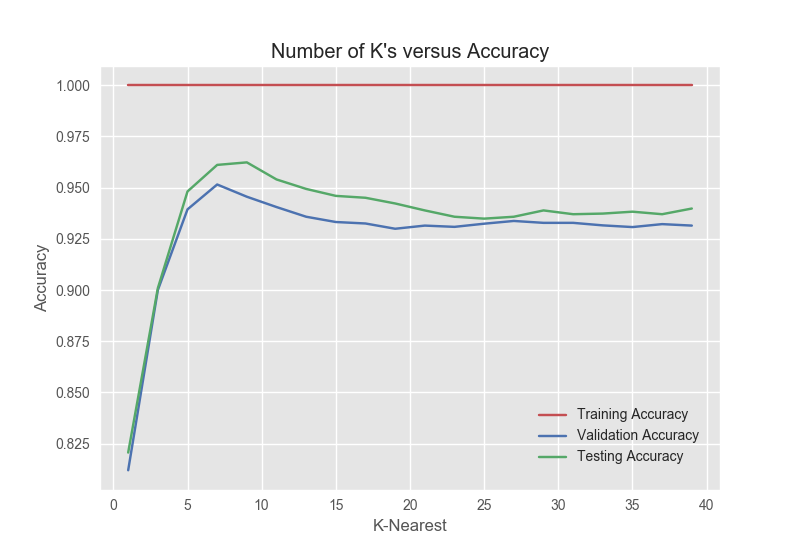
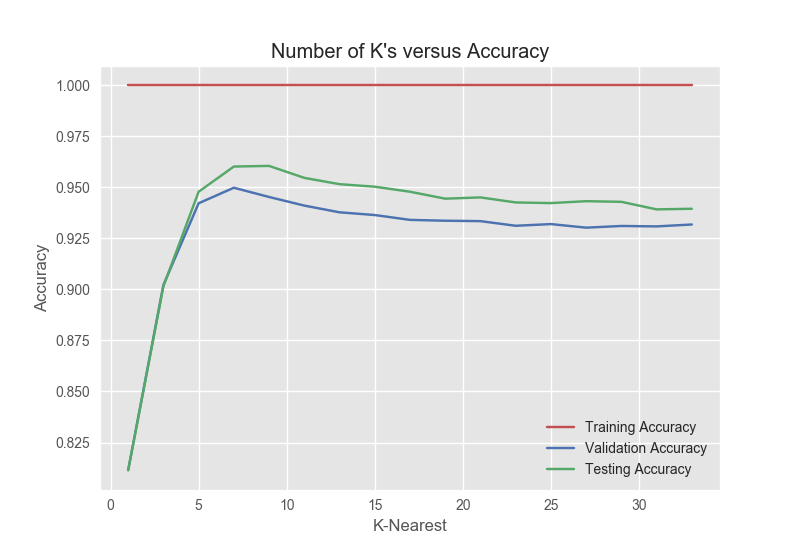
knn updates, plots

diff --git a/nursery_knn.py b/nursery_knn.py
@@ -20,15 +20,10 @@ labelencoder=LabelEncoder()
 for col in df.columns:
     df[col] = labelencoder.fit_transform(df[col])
 
-print df.shape
-
-# Split into train and test (75% train - 6499 rows, 25% test - 1625 rows)
+# Split into train and test
 train, test = train_test_split(df, test_size = 0.25)
 
 label = 'result'
-# General x,y
-data_y = df[label]
-data_x = df[[x for x in train.columns if label not in x]]
 # Train set
 train_y = train[label]
 train_x = train[[x for x in train.columns if label not in x]]
@@ -39,11 +34,11 @@ test_x = test[[x for x in test.columns if label not in x]]
 training_accuracy = []
 validation_accuracy = []
 test_accuracy = []
-k_values = range(1,41,2)
+k_values = range(1,35,2)
 
-# For knn
-print "--- KNN ---"
+# For knn, experiment on different k values
 for k in k_values:
+
     # Define the classifier
     clf = neighbors.KNeighborsClassifier(k, weights='distance')
     clf.fit(train_x, train_y)
@@ -63,7 +58,58 @@ line1, = plt.plot(k_values, test_accuracy, 'g', label="Testing Accuracy")
 plt.xlabel('K-Nearest')
 plt.ylabel('Accuracy')
 plt.title('Number of K\'s versus Accuracy')
-plt.legend(bbox_to_anchor=(0.89, 0.28), bbox_transform=plt.gcf().transFigure)
+plt.legend(loc='best')
 fig.savefig('figures/nursery_knn_knumber.png')
 plt.close(fig)
 
+
+# After finding the right k value, experiment on training set size
+k = 15
+training_accuracy = []
+validation_accuracy = []
+test_accuracy = []
+training_size = [0.1, 0.2, 0.3, 0.4, 0.5, 0.6, 0.7, 0.8, 0.9]
+
+# For knn
+print "--- KNN ---"
+for s in training_size:
+    # Define the classifier
+    clf = neighbors.KNeighborsClassifier(k, weights='distance')
+    
+    temp_train, _ = train_test_split(train, test_size= 1 - s)
+
+    # Train set
+    percent_train_y = temp_train[label]
+    percent_train_x = temp_train[[x for x in train.columns if label not in x]]
+
+    print percent_train_x.shape
+
+    clf.fit(percent_train_x, percent_train_y)
+
+    print 'Size: ', s, '%'
+    print accuracy_score(test_y, clf.predict(test_x))
+
+    training_accuracy.append(accuracy_score(percent_train_y, clf.predict(percent_train_x)))
+    cv = cross_val_score(clf, percent_train_x, percent_train_y, cv=7).mean()
+    validation_accuracy.append(cv)
+    test_accuracy.append(accuracy_score(test_y, clf.predict(test_x)))
+
+clf = neighbors.KNeighborsClassifier(k, weights='distance')
+clf.fit(train_x, train_y)
+
+training_accuracy.append(accuracy_score(percent_train_y, clf.predict(percent_train_x)))
+cv = cross_val_score(clf, percent_train_x, percent_train_y, cv=7).mean()
+validation_accuracy.append(cv)
+test_accuracy.append(accuracy_score(test_y, clf.predict(test_x)))
+training_size.append(1)
+
+fig = plt.figure()
+line1, = plt.plot(training_size, training_accuracy, 'r', label="Training Accuracy")
+line2, = plt.plot(training_size, validation_accuracy, 'b', label="Validation Accuracy")
+line1, = plt.plot(training_size, test_accuracy, 'g', label="Testing Accuracy")
+plt.xlabel('Training Set Size (%)')
+plt.ylabel('Accuracy')
+plt.title('Training size versus Accuracy')
+plt.legend(loc='best')
+fig.savefig('figures/nursery_knn_trainingSize.png')
+plt.close(fig)
